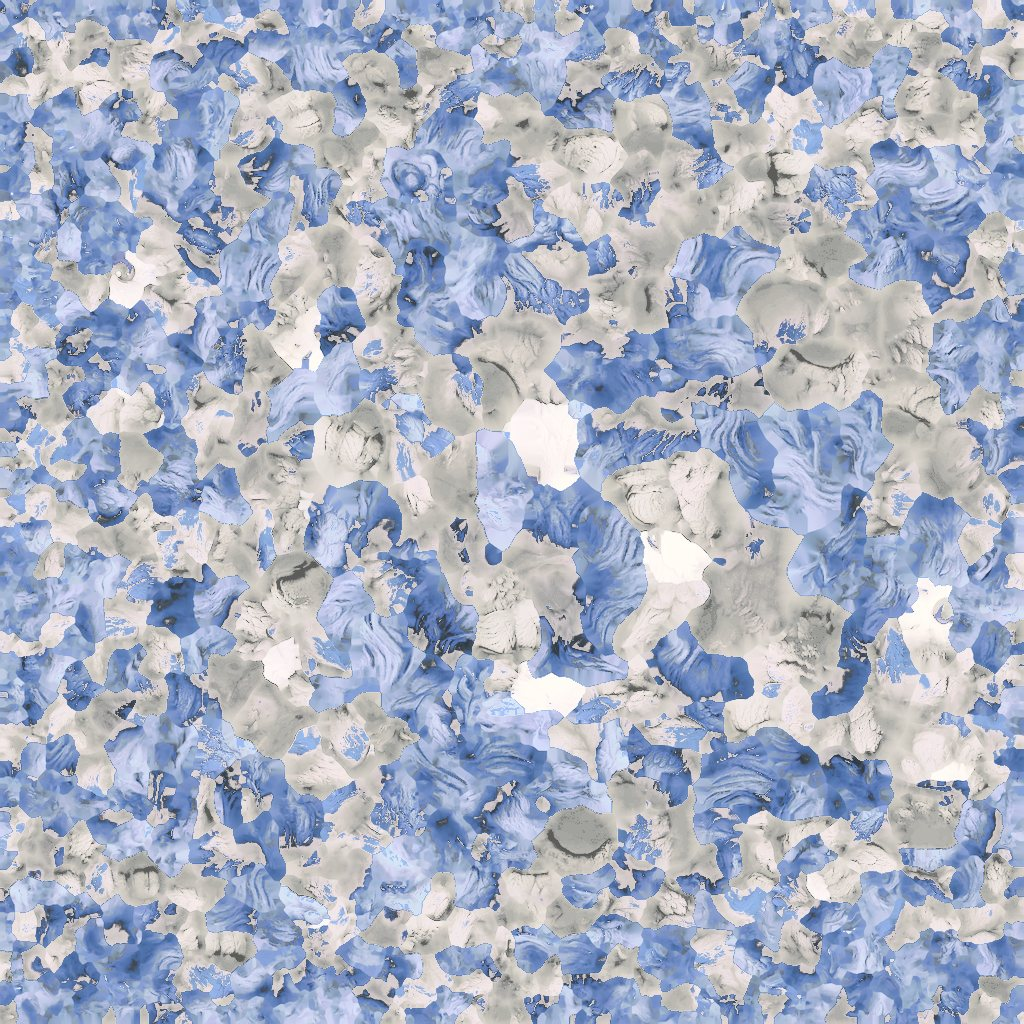
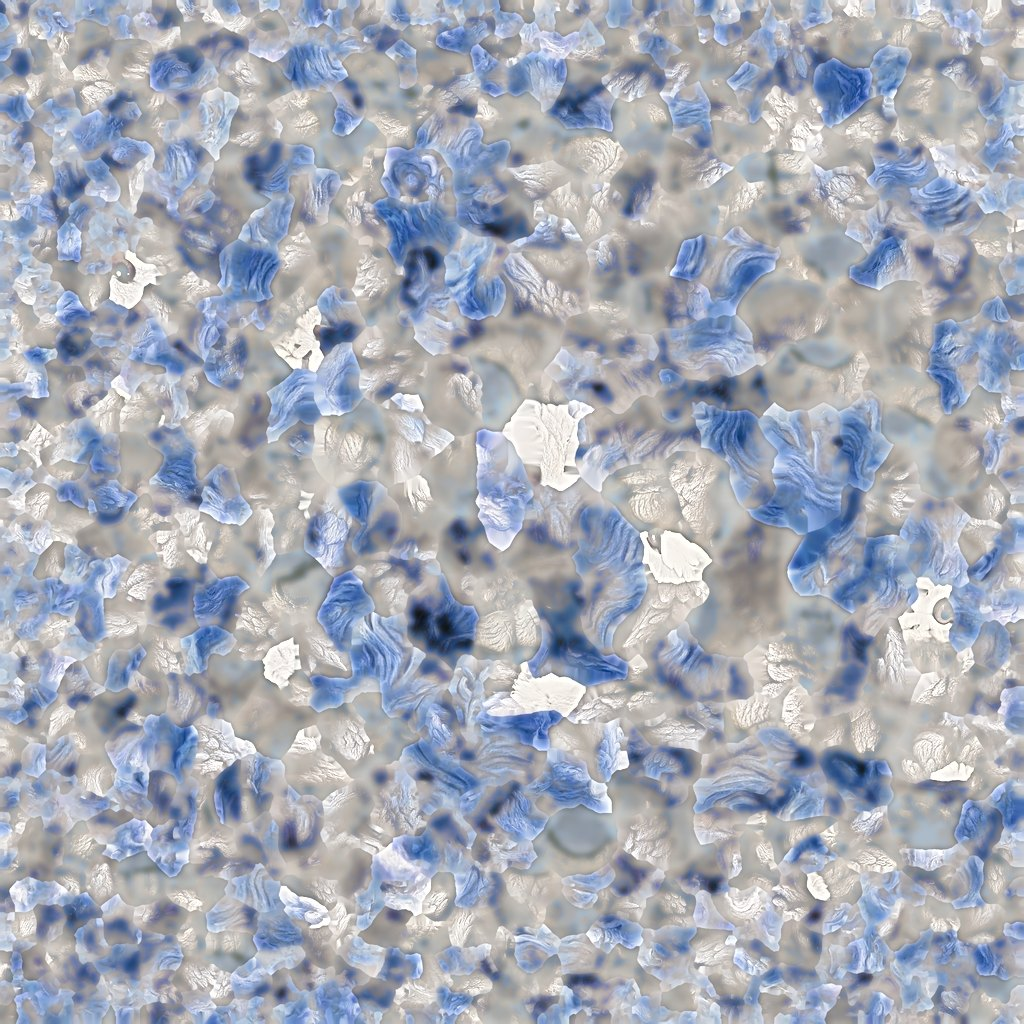
Cores das pelúcias tiradas da folha de referência
Transferência de cor (transporte ótimo) da foto de referência de cada pelúcia para a textura do modelo 3D, mantendo os pelos/escamas.

Claude-Session: https://claude.ai/code/session_01QxwnFSTzBnKj8Crdg9kph5

diff --git a/index.html b/index.html
@@ -998,7 +998,7 @@ function projectPhoto(C,i,sp){
 /* ---------- real 3D models (GLB from image-to-3D) ---------- */
 // per model: file, head region (z,y thresholds) + neck pivot, tail start + pivot, personality speed
 const MODELS={
-  0:{file:'models/terranox.glb',hc:[0,.2,.39],hr:.13,hp:[0,.15,.28],tz:-.18,tp:[0,.16,-.18],spd:.55,wag:.18},
+  0:{file:'models/terranox.glb',skin:'models/skins/0.jpg',key:'terra0',hc:[0,.2,.39],hr:.13,hp:[0,.15,.28],tz:-.18,tp:[0,.16,-.18],spd:.55,wag:.18},
   10:{file:'models/sylvorn.glb',hc:[0,.42,.36],hr:.14,hp:[0,.36,.24],tz:-.3,tp:[0,.32,-.3],spd:1,wag:.35}
 };
 // derived plushes: the Sylvorn mesh without antlers/ears, a painted skin per plush, plus the plush's own parts (ears, wings, fins, tail...)
@@ -1014,7 +1014,7 @@ for(const [k,b,o] of [[11,'draksel',{spd:.9,wag:.3}],[6,'glacien',{spd:.7,wag:.2
   [1,'glacien',{spd:1,wag:.3,skin:1}],[3,'ignovus',{spd:1,wag:.3,skin:1}],[5,'magmord',{spd:.8,wag:.25,skin:1}],[18,'magmord',{spd:.6,wag:.25,skin:1}],
   [7,'flarion',{spd:1.3,wag:.4,skin:1}],[15,'petrun',{spd:.5,wag:.15,skin:1}],[12,'sombril',{spd:.6,wag:.15,skin:1}],
   [9,'umbros',{spd:.9,wag:.35,skin:1}],[17,'umbros',{spd:1.1,wag:.35,skin:1}],[19,'umbros',{spd:.9,wag:.35,skin:1}]])
-  MODELS[k]=Object.assign({file:'models/'+b+'.glb'},NB[b],o,{skin:o.skin?'models/skins/'+k+'.jpg':null,key:b+k});
+  MODELS[k]=Object.assign({file:'models/'+b+'.glb'},NB[b],o,{skin:(k==14||k==16)?null:'models/skins/'+k+'.jpg',key:b+k});
 const GLB={};
 const GLBDATA={};
 function loadGLB(m){if(GLB[m.file])return GLB[m.file];
